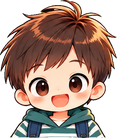
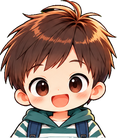
은결 v3 스카이훅 그림 1:1:1 비율로 다시 받은 것 적용

diff --git a/common/charv2.js b/common/charv2.js
@@ -14,8 +14,8 @@
   function load(look) {
     if (!LOOKS[look] || atlas[look]) return;
     const a = atlas[look] = { img: new Image(), f: null, ok: false };
-    fetch(`${base}common/chars/${look}.json?v=202610240856`).then((r) => r.json()).then((j) => {
-      a.f = j.frames; a.img.onload = () => { a.ok = true; }; a.img.src = `${base}common/chars/${look}.webp?v=202610240856`;
+    fetch(`${base}common/chars/${look}.json?v=202610240907`).then((r) => r.json()).then((j) => {
+      a.f = j.frames; a.img.onload = () => { a.ok = true; }; a.img.src = `${base}common/chars/${look}.webp?v=202610240907`;
     }).catch(() => { /* 그림이 없으면 기본 그림으로 */ });
   }
   const get = (look, name) => { const a = atlas[look]; return a && a.ok && a.f[name] ? [a, a.f[name]] : null; };

diff --git a/common/chars/looks.js b/common/chars/looks.js
@@ -7,7 +7,7 @@ window.CHAR_LOOKS = [
   { look: 'eungyeol', name: '은결 스타일', base: 'eungyeol', atlas: false, dress: true },
   { look: 'eunyu2', name: '은유 v2', base: 'eunyu', atlas: true, dress: false, isNew: true },
   { look: 'eungyeol2', name: '은결 v2', base: 'eungyeol', atlas: true, dress: false, isNew: true },
-  { look: 'eungyeol3', name: '은결 v3', base: 'eungyeol', atlas: true, dress: false, isNew: true },
   { look: 'eunyu3', name: '은유 v3', base: 'eunyu', atlas: true, dress: false, isNew: true },
+  { look: 'eungyeol3', name: '은결 v3', base: 'eungyeol', atlas: true, dress: false, isNew: true },
   // @@NEW_LOOKS@@ (이 줄 위에 새 캐릭터가 추가돼요)
 ];

diff --git a/skyhook/index.html b/skyhook/index.html
@@ -113,9 +113,9 @@
 
   <div id="rotateHint" class="hidden">가로로 돌리면 더 크게 볼 수 있어요 ↻</div>
 </div>
-<script src="../common/chars/looks.js?v=202610240856"></script>
+<script src="../common/chars/looks.js?v=202610240907"></script>
 <script src="../common/profile.js?v=20261023k"></script>
-<script src="../common/charv2.js?v=202610240856"></script>
+<script src="../common/charv2.js?v=202610240907"></script>
 <script src="../common/costume.js?v=20261023k"></script>
 <script src="../common/skins.js?v=20261023k"></script>
 <script src="game.js?v=20261024c"></script>

diff --git a/helicopter/index.html b/helicopter/index.html
@@ -91,9 +91,9 @@
 
   <div id="rotateHint" class="hidden">가로로 돌리면 더 크게 볼 수 있어요 ↻</div>
 </div>
-<script src="../common/chars/looks.js?v=202610240856"></script>
+<script src="../common/chars/looks.js?v=202610240907"></script>
 <script src="../common/profile.js?v=20261023k"></script>
-<script src="../common/charv2.js?v=202610240856"></script>
+<script src="../common/charv2.js?v=202610240907"></script>
 <script src="../common/costume.js?v=20261023k"></script>
 <script src="../common/skins.js?v=20261023k"></script>
 <script src="game.js?v=20261023k"></script>

diff --git a/stairs/index.html b/stairs/index.html
@@ -95,9 +95,9 @@
 
   <div id="rotateHint" class="hidden">📱 세로로 세워서 하면 더 크게 보여요</div>
 </div>
-<script src="../common/chars/looks.js?v=202610240856"></script>
+<script src="../common/chars/looks.js?v=202610240907"></script>
 <script src="../common/profile.js?v=20261023k"></script>
-<script src="../common/charv2.js?v=202610240856"></script>
+<script src="../common/charv2.js?v=202610240907"></script>
 <script src="../common/costume.js?v=20261023k"></script>
 <script src="../common/skins.js?v=20261023k"></script>
 <script src="game.js?v=20261024c"></script>

diff --git a/shisen/index.html b/shisen/index.html
@@ -88,10 +88,10 @@
 
   <div id="toast" class="toast hidden"></div>
 </div>
-<script src="../common/chars/looks.js?v=202610240856"></script>
+<script src="../common/chars/looks.js?v=202610240907"></script>
 <script src="../common/profile.js?v=20261023k"></script>
 <script src="../common/skins.js?v=20261023k"></script>
-<script src="../common/charv2.js?v=202610240856"></script>
+<script src="../common/charv2.js?v=202610240907"></script>
 <script src="../common/costume.js?v=20261023k"></script>
 <script src="game.js?v=20261024c"></script>
 </body>

diff --git a/downhill/index.html b/downhill/index.html
@@ -87,9 +87,9 @@
     </div>
   </div>
 </div>
-<script src="../common/chars/looks.js?v=202610240856"></script>
+<script src="../common/chars/looks.js?v=202610240907"></script>
 <script src="../common/profile.js?v=20261023k"></script>
-<script src="../common/charv2.js?v=202610240856"></script>
+<script src="../common/charv2.js?v=202610240907"></script>
 <script src="../common/costume.js?v=20261023k"></script>
 <script src="../common/skins.js?v=20261023k"></script>
 <script src="game.js?v=20261023b"></script>

diff --git a/index.html b/index.html
@@ -171,9 +171,9 @@
     <button id="tsStart" class="ts-start"><span class="ts-tri"></span>START</button>
   </div>
 
-<script src="common/chars/looks.js?v=202610240856"></script>
+<script src="common/chars/looks.js?v=202610240907"></script>
 <script src="common/profile.js?v=20261023r"></script>
-<script src="common/charv2.js?v=202610240856"></script>
+<script src="common/charv2.js?v=202610240907"></script>
 <script src="hub/hub.js?v=20261024c"></script>
 </body>
 </html>

diff --git a/shop/index.html b/shop/index.html
@@ -130,7 +130,7 @@
 </div>
 <div id="toast" class="toast hidden"></div>
 
-<script src="../common/chars/looks.js?v=202610240856"></script>
+<script src="../common/chars/looks.js?v=202610240907"></script>
 <script src="../common/profile.js?v=20261023k"></script>
 <script src="shop.js?v=20261023k"></script>
 </body>
